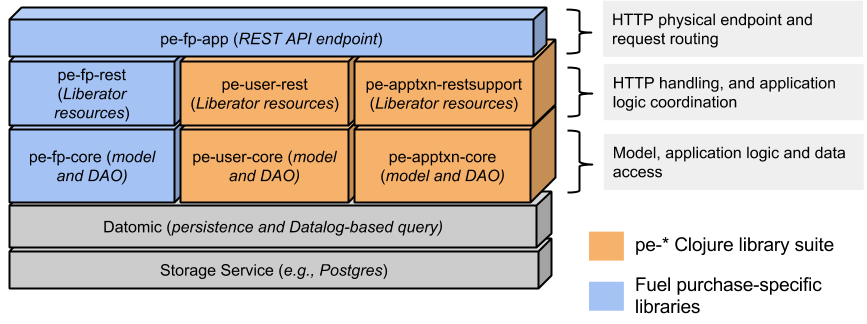
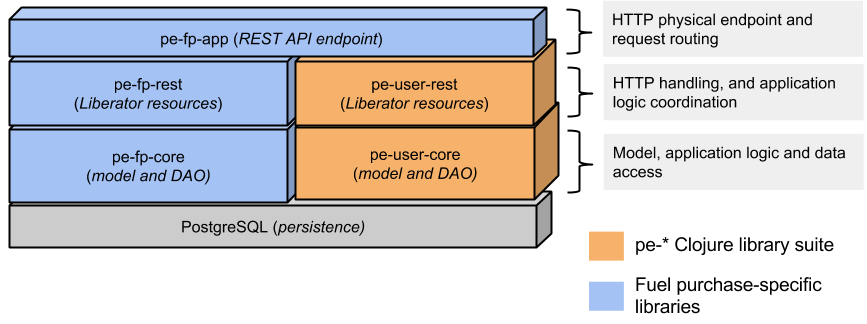
updated readme and screenshots

Changed region(s): [[0.0311, 0.1543, 0.654, 0.6481], [0.0, 0.7407, 0.654, 0.8951], [0.1246, 0.679, 0.5294, 0.7407]]

diff --git a/README.md b/README.md
@@ -8,7 +8,15 @@ purchase system consists of 2 tiers:
 pe-fp-app represents the server application; it exposes a REST API endpoint to
 client applications.
 
-pe-fp-app makes use of the [pe-* Clojure library suite](#pe--clojure-library-suite).  In addition to using the pe-* library suite, it leverages [pe-fp-rest](https://github.com/evanspa/pe-fp-rest), which implements the underlying fuel purchase-specific resources of the REST API.  pe-fp-rest is built on top of [pe-fp-core](https://github.com/evanspa/pe-fp-core), which implements the core logic, model and data access functionality of the REST application.  These tiers are illustrated in the [component layering](#component-layering) diagram below.
+pe-fp-app makes use of the
+[pe-* Clojure library suite](#pe--clojure-library-suite).  In addition to using
+the pe-* library suite, it leverages
+[pe-fp-rest](https://github.com/evanspa/pe-fp-rest), which implements the
+underlying fuel purchase-specific resources of the REST API.  pe-fp-rest is
+built on top of [pe-fp-core](https://github.com/evanspa/pe-fp-core), which
+implements the core logic, model and data access functionality of the REST
+application.  These tiers are illustrated in the
+[component layering](#component-layering) diagram below.
 
 <!-- START doctoc generated TOC please keep comment here to allow auto update -->
 <!-- DON'T EDIT THIS SECTION, INSTEAD RE-RUN doctoc TO UPDATE -->
@@ -61,13 +69,15 @@ The pe-* Clojure library suite is a set of Clojure libraries to aid in the
 development of Clojure based applications.
 *(Each library is available on Clojars.)*
 + **[pe-core-utils](https://github.com/evanspa/pe-core-utils)**: provides a set
-  of various collection-related, date-related and other helpers functions.
+of various collection-related, date-related and other helpers functions.
++ **[pe-jdbc-utils](https://github.com/evanspa/pe-jdbc-utils)**: provides
+  a set of helper functions for working with JDBC.
 + **[pe-datomic-utils](https://github.com/evanspa/pe-datomic-utils)**: provides
   a set of helper functions for working with [Datomic](https://www.datomic.com).
 + **[pe-datomic-testutils](https://github.com/evanspa/pe-datomic-testutils)**: provides
   a set of helper functions to aid in unit testing Datomic-enabled functions.
 + **[pe-user-core](https://github.com/evanspa/pe-user-core)**: provides
-  a set of functions for modeling a generic user, leveraging Datomic as a
+  a set of functions for modeling a generic user, leveraging PostgreSQL as a
   backend store.
 + **[pe-user-testutils](https://github.com/evanspa/pe-user-testutils)**: a set of helper functions to aid in unit testing
 code that depends on the functionality of the pe-user-* libraries
@@ -82,7 +92,7 @@ code that depends on the functionality of the pe-user-* libraries
   a set of helper functions for unit testing web services.
 + **[pe-user-rest](https://github.com/evanspa/pe-user-rest)**: provides a set of
   functions encapsulating an abstraction modeling a user within a REST API
-  and leveraging [Datomic](http://www.datomic.com).
+  and leveraging PostgreSQL.
 + **[pe-apptxn-restsupport](https://github.com/evanspa/pe-apptxn-restsupport)**:
   provides a set of functions implementing the server-side REST layer of the
   PEAppTransaction Logging Framework.
